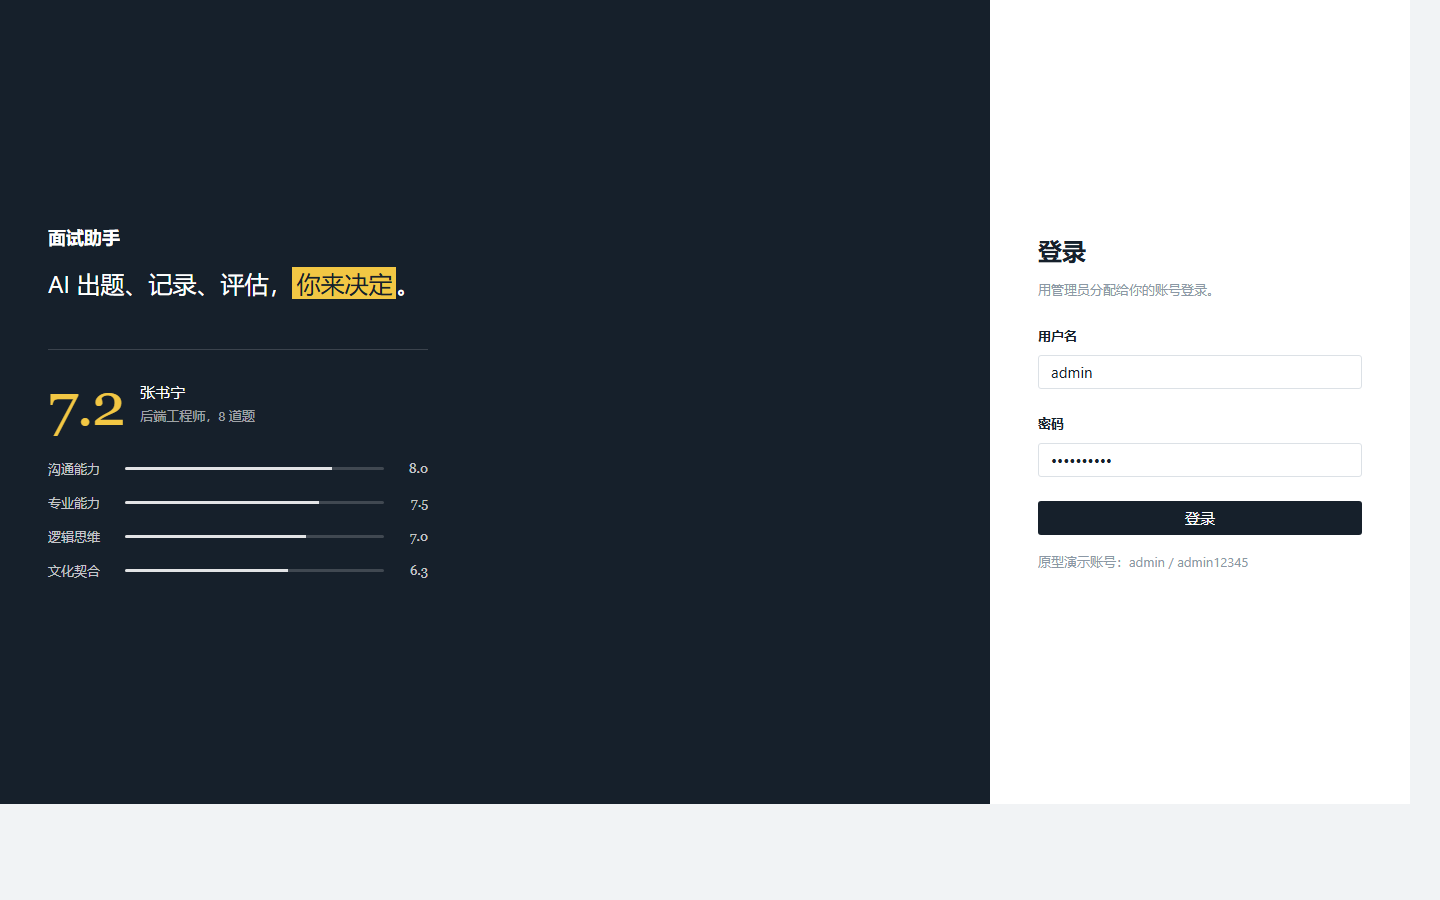
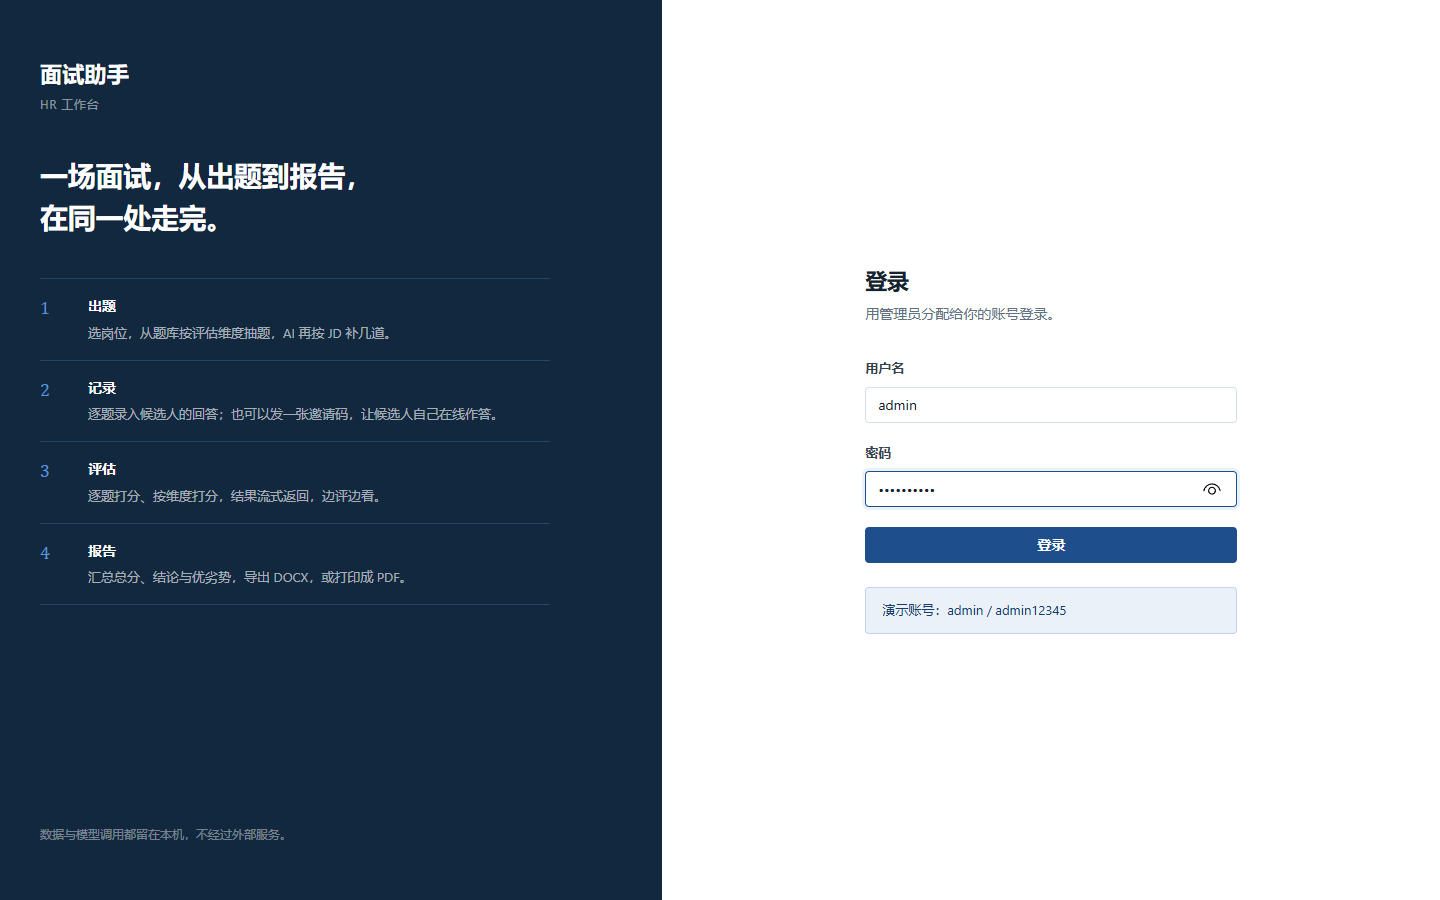
重拍原型设计记录截图（12 张）并修正 README 中原型已冻结的说法

Changed region(s): [[0.0, 0.0, 0.9688, 1.0], [0.0312, 0.1556, 0.3438, 0.6533], [0.0312, 0.0622, 0.0938, 0.1244]]

diff --git a/frontend/README.md b/frontend/README.md
@@ -108,9 +108,9 @@ frontend/
     pages/                    7 个页面
     styles/                   tokens / base / components / pages
     __tests__/                sse.test.js · radar.test.js
-  standalone.html             原型期冻结的单文件快照（见下）
+  standalone.html             原型单文件快照（手工维护，见下）
   mock/                       Mock 联调测试（浏览器端，见「单测」一节）
-  .screenshots/               设计记录（10 张）
+  .screenshots/               设计记录（12 张，拍自 standalone.html）
 ```
 
 ### 关于 `standalone.html`
@@ -118,8 +118,15 @@ frontend/
 它是**原型阶段的单文件快照**：数据来自内存 mock，双击即可打开，用于给别人演示设计。
 **它不是本工程的构建产物，也不参与 `npm run build`** —— 真实应用走
 [`一键启动.bat`](../一键启动.bat)（后端托管 `dist/`）或 `npm run dev`。
-它刻意保持冻结，不再随 `src/` 更新；生成它的 `tools/build-standalone.py`
-已在 `01a7d20` 中删除，所以它也**无法**再重新生成。
+
+它现在是**手工维护**的设计交付物（覆盖面为 HR 侧 + 候选人侧全量），不再是构建产物 ——
+生成它的 `tools/build-standalone.py` 已在 `01a7d20` 中删除。
+
+> ⚠ **原型与 `src/` 目前是两套视觉语言。** 下面「设计决策」三条规则描述的是
+> `src/`（荧光笔 + Georgia + 无品牌主色）。原型自 2026-09-21 起改用另一套
+> 「案卷工作台」语言：深墨蓝脊 + 纸白工作区 + 单一品牌靛蓝（只管身份与操作）
+> + 分数色带（只管评分）+ 灰阶（管结构），数字用 Cambria 衬线右对齐。
+> **原型的令牌以 `standalone.html` 顶部注释为唯一真相。** 两套是否收敛，另行决定。
 
 ### 为什么不用 `EventSource`
 
